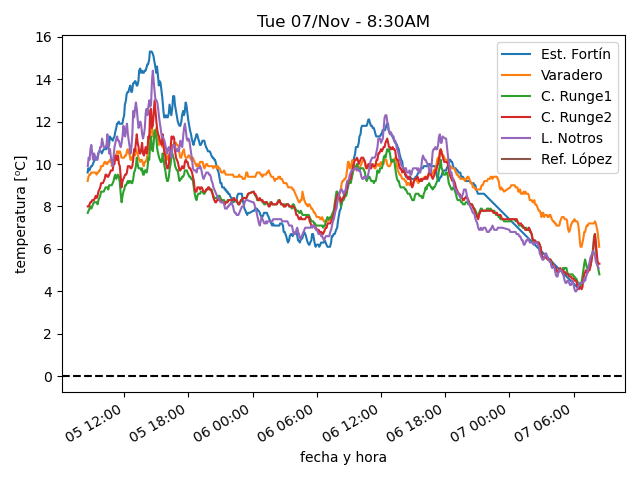
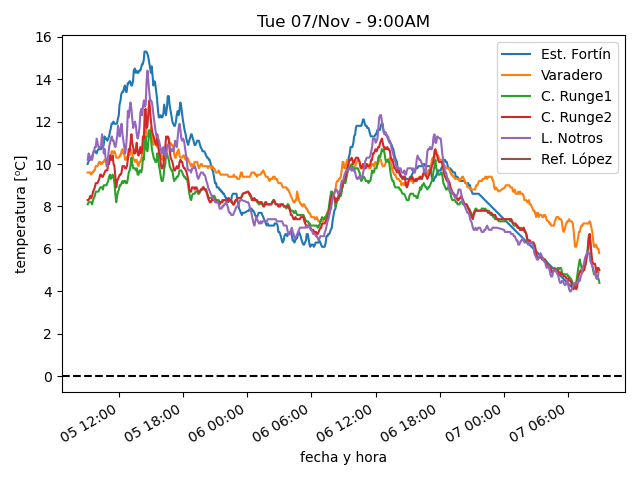
actualiza datos

diff --git a/estaciones/estacion3.html b/estaciones/estacion3.html
@@ -18,32 +18,32 @@
     </tr>
     <tr>
      <td class="stats_data">
-      8:24AM
+      8:54AM
      </td>
     </tr>
     <tr>
      <td class="stats_data">
-      4.8⁰C
+      4.4⁰C
      </td>
     </tr>
     <tr>
      <td class="stats_data">
-      3.0⁰C
+      3.1⁰C
      </td>
     </tr>
     <tr>
      <td class="stats_data">
-      88.6%
+      90.9%
      </td>
     </tr>
     <tr>
      <td class="stats_data">
-      1003.12hPa
+      1003.32hPa
      </td>
     </tr>
     <tr>
      <td class="stats_data">
-      7.0/9.6 km/hr NW
+      8.1/11.5 km/hr WNW
      </td>
     </tr>
     <tr>
@@ -58,7 +58,7 @@
     </tr>
     <tr>
      <td class="stats_data">
-      184.7 W/m²
+      218.1 W/m²
      </td>
     </tr>
    </tbody>

diff --git a/estaciones/estacion4.html b/estaciones/estacion4.html
@@ -18,32 +18,32 @@
     </tr>
     <tr>
      <td class="stats_data">
-      8:24AM
+      8:54AM
      </td>
     </tr>
     <tr>
      <td class="stats_data">
-      5.3⁰C
+      5.0⁰C
      </td>
     </tr>
     <tr>
      <td class="stats_data">
-      2.9⁰C
+      3.0⁰C
      </td>
     </tr>
     <tr>
      <td class="stats_data">
-      84.4%
+      87.0%
      </td>
     </tr>
     <tr>
      <td class="stats_data">
-      1011.92hPa
+      1012.02hPa
      </td>
     </tr>
     <tr>
      <td class="stats_data">
-      2.4/4.0 km/hr W
+      2.2/3.9 km/hr SSW
      </td>
     </tr>
     <tr>
@@ -58,7 +58,7 @@
     </tr>
     <tr>
      <td class="stats_data">
-      154.6 W/m²
+      184.1 W/m²
      </td>
     </tr>
    </tbody>

diff --git a/estaciones/estacion2.html b/estaciones/estacion2.html
@@ -18,22 +18,22 @@
     </tr>
     <tr>
      <td class="stats_data">
-      8:23AM
+      8:53AM
      </td>
     </tr>
     <tr>
      <td class="stats_data">
-      6.1⁰C
+      5.8⁰C
      </td>
     </tr>
     <tr>
      <td class="stats_data">
-      3.8⁰C
+      3.9⁰C
      </td>
     </tr>
     <tr>
      <td class="stats_data">
-      84.9%
+      87.9%
      </td>
     </tr>
     <tr>
@@ -43,7 +43,7 @@
     </tr>
     <tr>
      <td class="stats_data">
-      24.7/28.9 km/hr WNW
+      25.2/29.6 km/hr NW
      </td>
     </tr>
     <tr>
@@ -58,7 +58,7 @@
     </tr>
     <tr>
      <td class="stats_data">
-      229.4 W/m²
+      216.9 W/m²
      </td>
     </tr>
    </tbody>

diff --git a/estaciones/estacion5.html b/estaciones/estacion5.html
@@ -18,27 +18,27 @@
     </tr>
     <tr>
      <td class="stats_data">
-      8:20AM
+      8:50AM
      </td>
     </tr>
     <tr>
      <td class="stats_data">
-      5.1⁰C
+      4.9⁰C
      </td>
     </tr>
     <tr>
      <td class="stats_data">
-      3.3⁰C
+      3.6⁰C
      </td>
     </tr>
     <tr>
      <td class="stats_data">
-      88.0%
+      91.0%
      </td>
     </tr>
     <tr>
      <td class="stats_data">
-      1015.31hPa
+      1015.78hPa
      </td>
     </tr>
     <tr>
@@ -48,7 +48,7 @@
     </tr>
     <tr>
      <td class="stats_data">
-      0.76 / 0.0 mm
+      1.52 / 0.76 mm
      </td>
     </tr>
     <tr>
